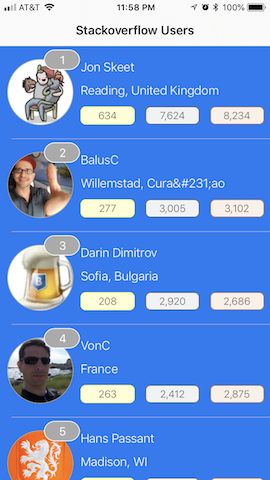
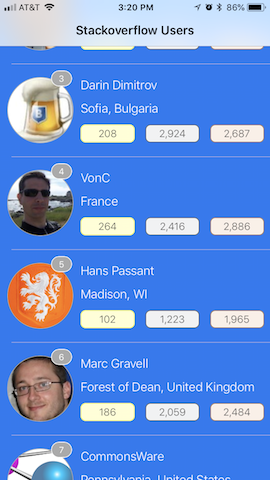
Replace app screenshot, update README file.

diff --git a/README.md b/README.md
@@ -8,7 +8,7 @@ Calls StackExchange API [user endpoint](https://api.stackexchange.com/2.2/users?
 
 ## Features
 
-* Downloads user's avatar once and saves it locally
+* Downloads user's avatar once and saves it locally (e.g., app's document directory)
   * App will cache image to speed up retrieval and reduce file I/O
 
 * Supports pull-down-refresh (UsersTableViewController)
